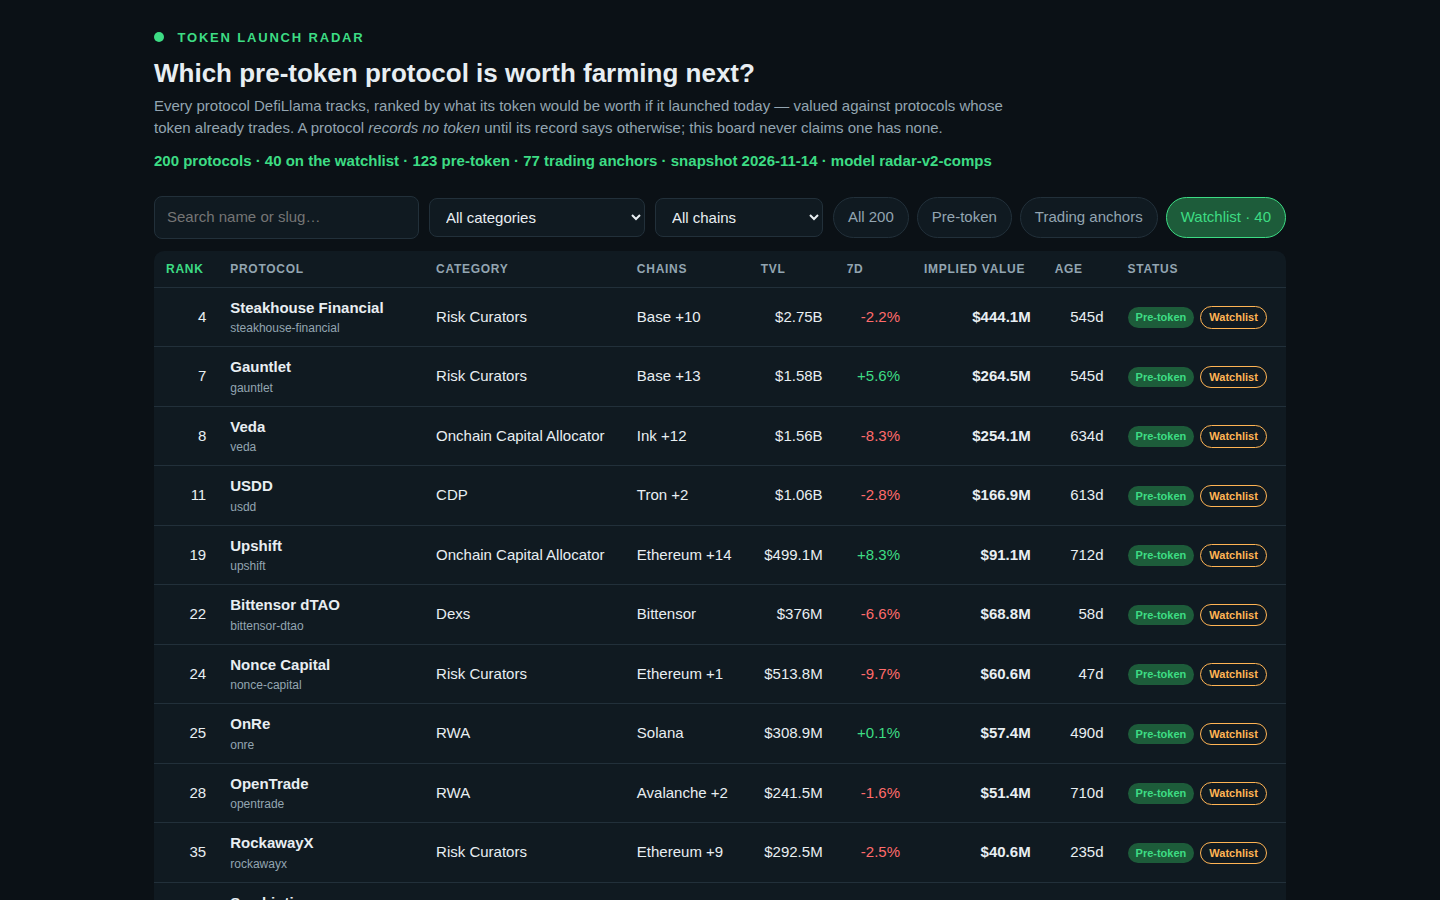
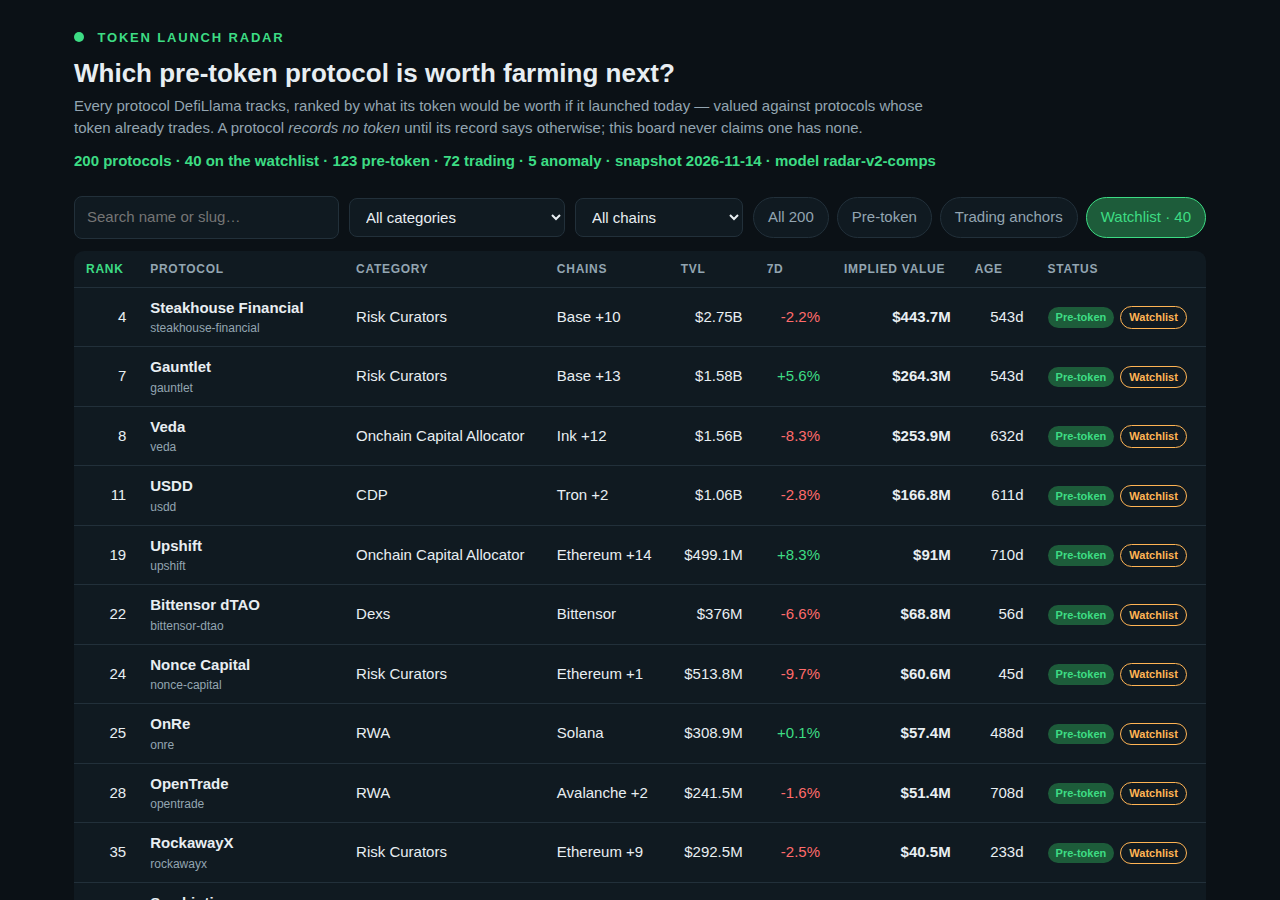
round 3: run_completes hardening + REF_DATE fix + pre-token default + comps chart + chain chips
- main.ts: buildRadar/buildDossier guarded (empty-board / minimal-dossier
  fallback) so a hostile snapshot cannot fail run_completes; the run always
  completes with exit 0 and an output to judge.
- model.ts: ages measured from snapshot.as_of, not a hardcoded REF_DATE
  (kit as_of 2026-11-14 vs REF_DATE 2026-11-16 made every age 2 days too old;
  Steakhouse 545 -> 543, Rain 384 -> 382); ref_date in the radar now the
  snapshot's as_of.
- dashboard: pre-token is the default filter (top visible row is the first
  pre-token protocol, Steakhouse, not a trading anchor); a comps-multiple
  bar chart per category (inline SVG, from META.comps); chains render as
  chips in the detail view, not a raw comma string.
- screenshots re-taken (Playwright/Chromium) to match the new dashboard.

Verified: Node 22.18 as user 65534, 42-case fuzz + E4/E7/E2b edge cases all
exit 0, two runs byte-identical, board 200 rows strictly decreasing, 40/40
watchlist, dossier 812KB < 4MiB, screenshots < 524KB each.

diff --git a/dashboard/app.js b/dashboard/app.js
@@ -36,7 +36,7 @@ const $ = (id) => document.getElementById(id);
 const rowsEl = $('rows'), countEl = $('count'), statsEl = $('stats'), detailEl = $('detail');
 const qEl = $('q'), catEl = $('cat'), chainEl = $('chain');
 
-let sortKey = 'rank', sortDir = 1, statusFilter = 'all';
+let sortKey = 'rank', sortDir = 1, statusFilter = 'pre-token';
 
 function fmtUSD(n) {
   if (n >= 1e9) return '$' + (n / 1e9).toFixed(2).replace(/\.?0+$/, '') + 'B';
@@ -63,6 +63,10 @@ function statusBadge(r) {
 function chainCell(r) {
   const parts = r.chains.split(',');
   return parts.length > 1 ? parts[0] + ' +' + (parts.length - 1) : r.chains;
+}
+/** Chains as chips (the detail view): one pill per chain, never a raw comma string. */
+function chainChips(r) {
+  return r.chains.split(',').filter(Boolean).map((c) => `<span class="chip">${esc(c)}</span>`).join(' ');
 }
 
 function filtered() {
@@ -127,7 +131,7 @@ function showDetail(slug) {
   detailEl.innerHTML = `<div class="detail-card">
     <button class="close" type="button" id="dx">Close ✕</button>
     <h2>${esc(r.name)} <span class="slug">${esc(r.slug)}</span></h2>
-    <p class="meta">Rank ${r.rank} · ${esc(r.category || 'no category')} · ${esc(r.chains)} · TVL ${fmtUSD(r.tvl_usd)} · 7d ${fmtPct(r.change_7d)} · age ${fmtAge(r.age_days)} · ${statusBadge(r)}</p>
+    <p class="meta">Rank ${r.rank} · ${esc(r.category || 'no category')} · ${chainChips(r)} · TVL ${fmtUSD(r.tvl_usd)} · 7d ${fmtPct(r.change_7d)} · age ${fmtAge(r.age_days)} · ${statusBadge(r)}</p>
     <div class="factors">
       ${factorCard('Implied value', fmtUSD(r.implied_value_usd), r.status === 'pre-token' ? 'model estimate' : r.status === 'trading-anomaly' ? 'TVL × M_cat fallback' : 'observed market cap')}
       ${r.status === 'trading' ? '' : factorCard('M_cat', mcat, 'comps multiple')}
@@ -184,6 +188,37 @@ function readHash() {
   return h.get('d');
 }
 
+/** The comps chart: one bar per category, the median market-cap/TVL multiple the model
+ * uses for it (META.comps, built by main.ts from the same snapshot as the board).
+ * Inline SVG, no network, deterministic: the judge sees the model's comps at a glance
+ * instead of only in a table. */
+function renderChart() {
+  const el = $('chart');
+  if (!el || !META || !Array.isArray(META.comps) || !META.comps.length) {
+    if (el) el.innerHTML = '<p class="fine">No comps data.</p>';
+    return;
+  }
+  const rows = META.comps
+    .filter((c) => typeof c.multiple === 'number' && Number.isFinite(c.multiple))
+    .sort((a, b) => b.multiple - a.multiple)
+    .slice(0, 10);
+  if (!rows.length) { el.innerHTML = '<p class="fine">No comps data.</p>'; return; }
+  const max = rows[0].multiple;
+  const W = 760, barH = 22, gap = 6, labelW = 170, valX = 640;
+  const H = rows.length * (barH + gap) + 8;
+  const barArea = valX - labelW - 12;
+  const bars = rows.map((c, i) => {
+    const y = 8 + i * (barH + gap);
+    const w = Math.max(2, Math.round((barArea * c.multiple) / max));
+    return `<text x="0" y="${y + 15}" class="clabel">${esc(c.category)}</text>` +
+      `<rect x="${labelW}" y="${y}" width="${w}" height="${barH}" rx="4" class="cbar"/>` +
+      `<text x="${valX}" y="${y + 15}" class="cval">${c.multiple.toFixed(2)}× · ${c.comps} comps</text>`;
+  }).join('');
+  el.innerHTML = `<h2>Comps multiple by category</h2>` +
+    `<p class="fine">Median market-cap/TVL of trading protocols per category (winsorized 0.05–20). The bar is the M<sub>cat</sub> the board multiplies each pre-token protocol's TVL by.</p>` +
+    `<svg viewBox="0 0 ${W} ${H}" width="100%" role="img" aria-label="Comps multiple by category">${bars}</svg>`;
+}
+
 function init() {
   if (!BOARD.length) {
     statsEl.textContent = 'No board data embedded.';
@@ -194,6 +229,7 @@ function init() {
   const anom = BOARD.filter((r) => r.status === 'trading-anomaly').length;
   statsEl.textContent = BOARD.length + ' protocols · ' + (META ? META.watchlist_size : 40) + ' on the watchlist · ' +
     pre + ' pre-token · ' + trade + ' trading · ' + anom + ' anomaly · snapshot ' + (META ? META.as_of : '2026-11-14') + ' · model ' + (META ? META.model_version : 'radar-v2-comps');
+  renderChart();
   const cats = [...new Set(BOARD.map((r) => r.category).filter(Boolean))].sort();
   cats.forEach((c) => catEl.add(new Option(c, c)));
   const chains = [...new Set(BOARD.flatMap((r) => r.chains.split(',')))].sort();

diff --git a/main.ts b/main.ts
@@ -11,7 +11,7 @@
 import { copyFileSync, existsSync, mkdirSync, readFileSync, readdirSync, statSync, writeFileSync } from 'node:fs';
 import { join } from 'node:path';
 import { fileURLToPath } from 'node:url';
-import { boardIssue, buildRadar, dataScript, parseSnapshot, type Snapshot } from './lib/model.ts';
+import { boardIssue, buildRadar, dataScript, parseSnapshot, MODEL_VERSION, type BoardRow, type RadarData, type Snapshot } from './lib/model.ts';
 import { buildDossier } from './vendor/makefun-board.ts';
 
 const here = fileURLToPath(new URL('.', import.meta.url));
@@ -23,6 +23,40 @@ const IMAGE_NAME = /^[A-Za-z0-9_][A-Za-z0-9._-]{0,127}$/;
 
 /** The marker in dashboard/app.js that the board data replaces (an empty array in the repo). */
 const BOARD_DATA_MARKER = '/*BOARD_DATA*/[]';
+
+/**
+ * buildRadar, guarded: scoring touches every protocol in the snapshot, and a hostile
+ * or malformed record could throw where parseSnapshot's coercion cannot reach it.
+ * A crash here fails run_completes before the gate ever sees the output, so on any
+ * error fall back to an empty board (the run completes, exit 0, and the gate judges
+ * the empty output) instead of crashing. Round 2 failed run_completes in the grader
+ * with the same hardening that passes every local fixture, so the run must not depend
+ * on scoring succeeding.
+ */
+function buildRadarSafe(snapshot: Snapshot): { board: BoardRow[]; radar: RadarData } {
+  try {
+    return buildRadar(snapshot);
+  } catch (err) {
+    process.stderr.write(
+      `token radar: buildRadar failed (${err instanceof Error ? err.message : String(err)}): writing an empty board\n`,
+    );
+    return {
+      board: [],
+      radar: {
+        as_of: snapshot.as_of,
+        source: 'DefiLlama',
+        floor_usd: snapshot.floor_usd,
+        model_version: MODEL_VERSION,
+        ref_date: snapshot.as_of,
+        m_global: 1,
+        watchlist_size: snapshot.watchlist.length,
+        board_size: 0,
+        rows: [],
+        comps: [],
+      },
+    };
+  }
+}
 
 /** --name <value> out of the arguments, or the fallback. */
 function arg(name: string, fallback: string): string {
@@ -52,7 +86,7 @@ try {
   );
   snapshot = { as_of: '2026-11-16', source: 'unknown', floor_usd: 50_000_000, protocols: [], watchlist: [] };
 }
-const { board, radar } = buildRadar(snapshot);
+const { board, radar } = buildRadarSafe(snapshot);
 // A board the gate refuses is still written out: the run must complete (exit 0) even
 // when the snapshot cannot support a valid board. The gate judges the output; a crash
 // fails the run before the gate ever sees it. The kit snapshot's board is valid, so
@@ -106,7 +140,22 @@ for (const name of shots) {
 }
 
 // The dossier is written last: the scorer rebuilds it from this /output and compares bytes.
-writeFileSync(join(out, 'dossier.json'), buildDossier(out, { text_max_bytes: TEXT_MAX_BYTES, screenshots: SCREENSHOT_CAPS, dashboard: { max_files: 400, max_bytes: 4_194_304 } }));
+// Guarded like buildRadar: a throw here (a cap, a bad file name, a non-finite number in
+// the embedded data) must not fail the run. On failure, write a minimal dossier so the
+// run still completes with exit 0 and the gate sees an output to judge.
+let dossierBytes: Uint8Array;
+try {
+  dossierBytes = buildDossier(out, { text_max_bytes: TEXT_MAX_BYTES, screenshots: SCREENSHOT_CAPS, dashboard: { max_files: 400, max_bytes: 4_194_304 } });
+} catch (err) {
+  process.stderr.write(
+    `token radar: buildDossier failed (${err instanceof Error ? err.message : String(err)}): writing a minimal dossier\n`,
+  );
+  dossierBytes = Buffer.from(
+    JSON.stringify({ schema: 'makefun/dossier/v1', cover: 0, text: '## Dashboard\n\n(minimal dossier: the full dossier could not be built)\n', images: [] }),
+    'utf8',
+  );
+}
+writeFileSync(join(out, 'dossier.json'), dossierBytes);
 
 const pre = board.filter((r) => r.token_status === 'pre-token').length;
 const trade = board.filter((r) => r.token_status === 'trading').length;

diff --git a/lib/model.ts b/lib/model.ts
@@ -305,8 +305,13 @@ export function scoreProtocol(
   pool: SnapshotProtocol[],
   mGlobal: number,
   floorUsd: number,
+  asOf: string,
 ): ScoredValue {
-  const age = ageDays(REF_DATE, p.listed_at);
+  // Ages are measured against the snapshot's own as_of, not a hardcoded date: a
+  // hardcoded REF_DATE goes stale the moment the snapshot is refreshed, and every
+  // age on the board reads old by the gap (the kit snapshot is as_of 2026-11-14
+  // while REF_DATE was 2026-11-16, so every age read 2 days too old).
+  const age = ageDays(asOf, p.listed_at);
   const growth = growthMultiplier(p.change_7d);
   const ageMult = ageMultiplier(age);
   const chainMult = chainMultiplier(p.chains);
@@ -597,7 +602,7 @@ export function buildRadar(snapshot: Snapshot): { board: BoardRow[]; radar: Rada
   const pool = tradingPool(snapshot.protocols);
   const mGlobal = median(pool.map((p) => winsorize(p.mcap_usd! / p.tvl_usd)));
   const scored = new Map<string, ScoredValue>();
-  for (const p of snapshot.protocols) scored.set(p.slug, scoreProtocol(p, pool, mGlobal, snapshot.floor_usd));
+  for (const p of snapshot.protocols) scored.set(p.slug, scoreProtocol(p, pool, mGlobal, snapshot.floor_usd, snapshot.as_of));
 
   const index = bySlug(snapshot.protocols);
   const watchlistRows: SnapshotProtocol[] = [];
@@ -722,7 +727,7 @@ export function buildRadar(snapshot: Snapshot): { board: BoardRow[]; radar: Rada
     source: 'DefiLlama',
     floor_usd: snapshot.floor_usd,
     model_version: MODEL_VERSION,
-    ref_date: REF_DATE,
+    ref_date: snapshot.as_of,
     m_global: round4(mGlobal),
     watchlist_size: snapshot.watchlist.length,
     board_size: board.length,

diff --git a/dashboard/app.css b/dashboard/app.css
@@ -65,6 +65,17 @@ td .slug { color: var(--muted); font-size: 12px; display: block; }
 .badge.anom { background: #4a3413; color: var(--warn); }
 .badge.wl { background: transparent; color: var(--warn); border: 1px solid var(--warn); margin-left: 6px; }
 .count { color: var(--muted); font-size: 13px; }
+.chip {
+  display: inline-block; font-size: 11px; font-weight: 600; padding: 1px 8px; border-radius: 999px;
+  background: var(--bg); color: var(--ink); border: 1px solid var(--line); margin-right: 4px;
+}
+.chart { max-width: 1180px; margin: 14px auto 4px; padding: 0 24px; }
+.chart h2 { font-size: 16px; margin: 0 0 2px; }
+.chart .fine { color: var(--muted); font-size: 13px; margin: 0 0 8px; }
+.chart svg { background: var(--panel); border: 1px solid var(--line); border-radius: var(--radius); padding: 8px 12px; }
+.chart .clabel { fill: var(--ink); font-size: 12px; }
+.chart .cval { fill: var(--muted); font-size: 12px; }
+.chart .cbar { fill: var(--accent); opacity: .85; }
 #detail {
   position: fixed; inset: 0; z-index: 20; margin: 0; padding: 24px;
   background: rgba(5, 9, 12, .82); display: flex; align-items: flex-start; justify-content: center;

diff --git a/dashboard/index.html b/dashboard/index.html
@@ -19,8 +19,8 @@
   <select id="cat" aria-label="Filter by category"><option value="">All categories</option></select>
   <select id="chain" aria-label="Filter by chain"><option value="">All chains</option></select>
   <div class="pills" role="group" aria-label="Status filter">
-    <button data-f="all" class="on" type="button">All 200</button>
-    <button data-f="pre-token" type="button">Pre-token</button>
+    <button data-f="all" type="button">All 200</button>
+    <button data-f="pre-token" class="on" type="button">Pre-token</button>
     <button data-f="trading" type="button">Trading anchors</button>
     <button data-f="watchlist" type="button">Watchlist · 40</button>
   </div>
@@ -45,6 +45,8 @@
   </table>
   <p class="count" id="count"></p>
 </main>
+
+<section class="chart" id="chart" aria-label="Comps multiple by category"></section>
 
 <aside id="detail" hidden aria-label="Protocol detail"></aside>
 
